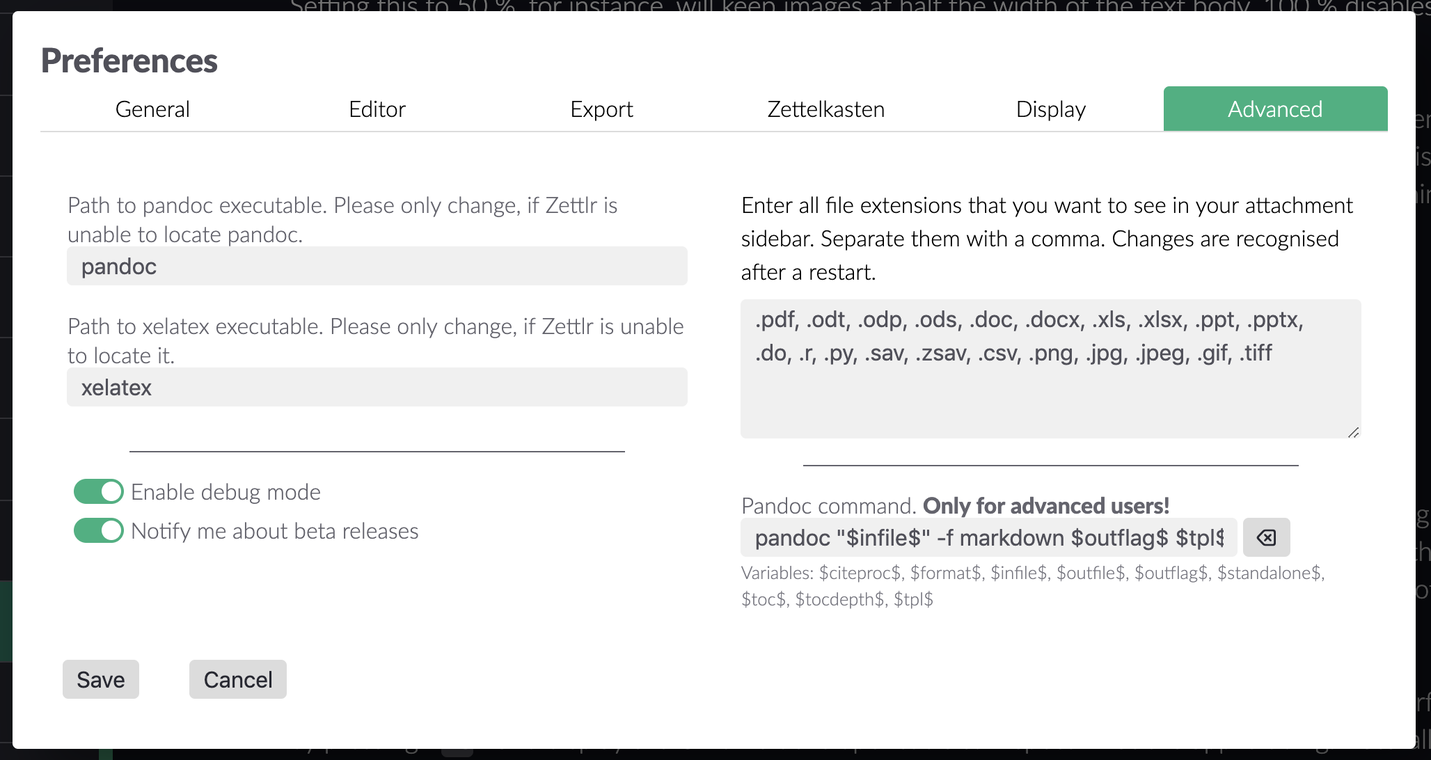
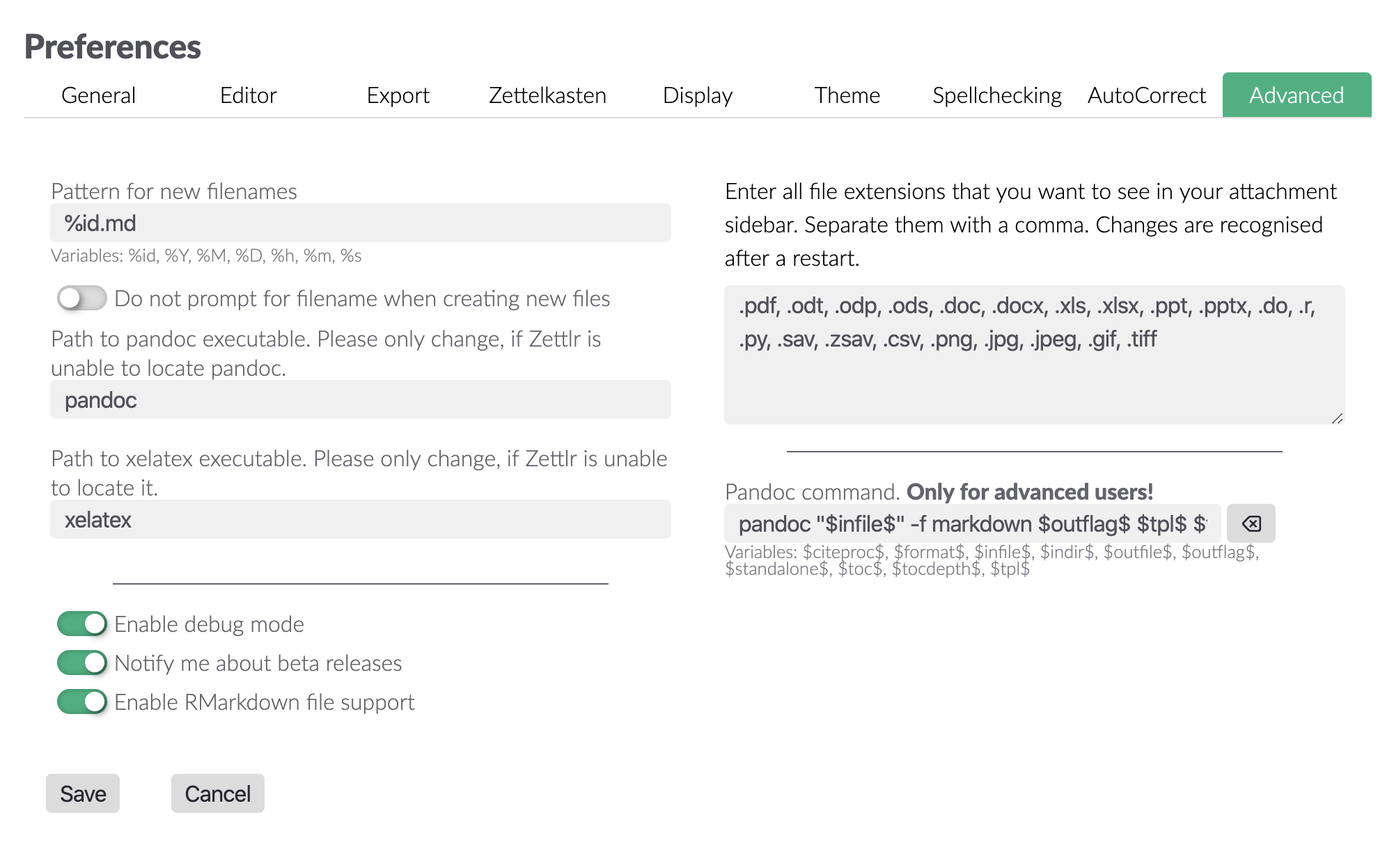
Updated Settings documentation

diff --git a/docs/de/reference/settings.md b/docs/de/reference/settings.md
@@ -4,29 +4,34 @@ Zettlr offers you a plethora of options to customise your experience with the ap
 
 ## General Preferences
 
-You can display the general preference dialog using either the shortcut `Cmd/Ctrl+,`, the toolbar button (the cog) or the respective menu item. The dialog will then show up and present to you all configuration options you may customise. They are ordered in six tabs that you can see at the top of the dialog.
+You can display the general preference dialog using either the shortcut `Cmd/Ctrl+,`, the toolbar button (the cog) or the respective menu item. The dialog will then show up and present to you all configuration options you may customise. They are ordered in nine tabs that you can see at the top of the dialog.
 
 * General: These options affect Zettlr as a whole.
 * Editor: These settings concern only the editor itself.
 * Export: Control how your files are exported in this tab.
 * Zettelkasten: Adapt Zettlr to match your Zettelkasten system.
 * Display: Control how the editor displays certain elements, such as images or links.
+* Theme: Select the theme for the app here.
+* Spellchecking: Find both the installed dictionaries and your user dictionary here.
+* AutoCorrect: Choose text to be replaced and also determine the quotes you’d like to use.
 * Advanced: Options for experienced users.
 
 ### General
 
 ![settings_general.png](../img/settings_general.png)
 
+
 In the general tab you find options that you might want to adjust if you begin using Zettlr to fit it to your needs. The application language is pretty self-explanatory.
 
-The "Night Mode" and "Snippets"-checkboxes control the display. The "Night Mode" is simply the dark theme Zettlr is capable of (and which you might want to control using the shortcut `Cmd/Ctrl+Alt+L` instead). Check the "Snippets"-checkbox to display meta information in the preview pane (although you can control this behaviour as well using its respective shortcut `Cmd/Ctrl+Alt+S`).
+The “Night Mode” and “File information”-checkboxes control the display. The “Night Mode” is simply the dark theme Zettlr is capable of (and which you might want to control using the shortcut `Cmd/Ctrl+Alt+L` instead). Check the “File information”-checkbox to display meta information in the file list (although you can control this behaviour as well using its respective shortcut `Cmd/Ctrl+Alt+S`).
 
-If you check "Hide directories during global search", Zettlr will not display directories while performing a search.
+If you check “Hide directories during global search,” Zettlr will not display directories while performing a search. by selecting “Always load remote changes to the current file”, Zettlr will not ask you whether you’d like to replace the file in the editor.
 
 The sidebar mode controls how the sidebar is displayed to you. You have two options:
 
 * Thin: In thin mode, the sidebar only displays _either_ the list of files _or_ the tree view. You can switch between both using the shortcut `Cmd/Ctrl+Shift+1`.
 * Expanded: The expanded mode displays both the tree view and the file list side by side. In this mode, you have both lists always present.
+* Combined: This makes the Sidebar look more like a traditional file browser, because it does not divide folders and files.
 
 If you want to hide the sidebar completely, please use the distraction-free mode (`Cmd/Ctrl+J`).
 
@@ -42,21 +47,20 @@ Last but not least Zettlr can automatically switch to light or dark mode dependi
 
 ![settings_editor.png](../img/settings_editor.png)
 
-The editor tab controls most functionality of the editor. The list to the left contains all available dictionaries that can be used for spell checking. Simply select the ones you want to use. You can use multiple dictionaries to check bilingual texts. Filter the list using the search box on top of the list.
+The editor tab controls most functionality of the editor. As Markdown allows both asterisks and underscores to make text bold and italic, you can choose your favourite flavour here. The **default image path** is a path you can use to tell Zettlr where it should put your images when you paste them from clipboard. It can be absolute or relative. If you provide the name `assets`, Zettlr would put images by default into the `assets` subdirectory of the directory where your file is. You can even tell it to use a directory relative to the parent directory, e.g. `../assets`. Remember that you can always select the directory for an image on a case-by-case basis.
 
-> **Tip**: To disable spell checking, uncheck all dictionaries. To install additional dictionaries, refer to the [localisation manual](../core/localisation.md).
+The indentation refers to the amount of spaces inserted when you, e.g., increase the level of lists.
 
-On the right hand side of the tab, you can see some checkboxes, a text input, and another list. First you can **mute non-focused lines** while you are in the distraction free mode. This means that Zettlr dims all lines except the one where your cursor is. The next option allows you to **automatically close certain character pairs**.
+The algorithm for the readability mode that Zettlr should use when you toggle the readability mode. For a short explanation of the different algorithms available, please head over to [our documentation on the readability mode](https://www.zettlr.com/readability).
+
+Further, you can **mute non-focused lines** while you are in the distraction free mode. This means that Zettlr dims all lines except the one where your cursor is. The next option allows you to **automatically close certain character pairs**.
 
 The third option only applies to users using a keyboard that features the `Home` and `End` keys. If you press them, the default CodeMirror behaviour is to move the cursor to the beginning or end respectively of a whole paragraph (i.e.: the beginning and end of a _logical_ line). If you want CodeMirror to only move to the beginning and end of the _visible_ line, make sure to turn off this option. If you make use of the hard-wrap feature of Markdown, and always manually wrap a paragraph, this setting won't have any effect for you.
-
-The **default image path** is a path you can use to tell Zettlr where it should put your images when you paste them from clipboard. It can be absolute or relative. If you provide the name `assets`, Zettlr would put images by default into the `assets` subdirectory of the directory where your file is. You can even tell it to use a directory relative to the parent directory, e.g. `../assets`. Remember that you can always select the directory for an image on a case-by-case basis.
-
-Finally, the list on the right hand side of the tab displays all the words you've added to your custom dictionary. Click them to remove them from your user dictionary.
 
 ### Export
 
 ![settings_export.png](../img/settings_export.png)
+
 
 The export tab allows you to tweak all preferences concerning how your files are exported. To the left you have options concerning the Zettelkasten functionality.
 
@@ -75,6 +79,7 @@ The CSL JSON database field can be used to open a literature database. Zettlr wi
 ### Zettelkasten
 
 ![settings_zettelkasten.png](../img/settings_zettelkasten.png)
+
 
 In this tab you can customise the way Zettlr works with your existing Zettelkasten system. In most cases you won't need to touch these options, except you want to use a custom system.
 
@@ -110,6 +115,7 @@ You can test both the generation of IDs and the detection of them by clicking th
 
 ![settings_display.png](../img/settings_display.png)
 
+
 This tab controls how the editor displays certain elements. Zettlr uses a semi-preview approach to Markdown and only renders some elements. On this tab you can control which elements will be rendered.
 
 > The iFrame-setting controls whether or not to render iFrames (for instance, YouTube-videos are embedded iFrames).
@@ -118,19 +124,49 @@ Additionally you can constrain the size of images, which is especially beneficia
 
 The vertical slider controls the maximum height of the images relative to the window size. 50 percent would mean that images will never be higher than half of the window's total size. 100 percent disables this behaviour. Unlike the width, images may very well exceed 100 percent of the viewport if they are large and thin.
 
+Last but not least you can determine which date you would like to see in the file metadata in the file list. This does not affect the sorting, if you’d like to sort by date. To change the time after which Zettlr should sort your files, please refer to the general tab.
+
+### Theme
+
+![settings_theme.png](../img/settings_theme.png)
+
+This tab should explain itself: Click on any of the previews to switch your application to that theme.
+
+### Spellchecking
+
+![settings_spellchecking.png](../img/settings_spellchecking.png)
+
+With the introduction of the user dictionary, the spellchecking functionality has moved to its dedicated tab. The list to the left contains all available dictionaries that can be used for spell checking. Simply select the ones you want to use. You can use multiple dictionaries to check bilingual texts. Filter the list using the search box on top of the list.
+
+> **Tip**: To disable spell checking, uncheck all dictionaries. To install additional dictionaries, refer to the [localisation manual](../core/localisation.md).
+
+Finally, the list on the right hand side of the tab displays all the words you've added to your custom dictionary. Click them to remove them from your user dictionary.
+
+### AutoCorrect
+
+![settings_autocorrect.png](../img/settings_autocorrect.png)
+
+This tab controls the AutoCorrect features you can use from version 1.5 onward that you might already know from LibreOffice or Word. You can choose to turn it off completely and choose the flavour you’d like. The main difference between the two styles is that Word is much quicker in replacing; it will replace when you type the last character, whereas LibreOffice only replaces when you hit Space or Return. LibreOffice is less harassing, but if you’re perfectly used to Word, you might find this mode easier.
+
+The “Magic Quotes” refer to exactly that: the primary and secondary quotes that you would like to use instead of the generic ASCII-quotes (`"` and `'`). We’ve included a lot of pairs used all around the world. If you would like to deactivate this feature, choose the **first** option (the ASCII-quotes) in both dropdowns.
+
+The last thing you can tweak is the replacement table to the right: These are simply characters you would like to replace with different ones. We’ve included a comprehensive list with most commonly needed tokens, so feel free to have a look around and also add or remove some!
+
 ### Advanced
 
 ![settings_advanced.png](../img/settings_advanced.png)
 
 The advanced tab contains options that are helpful for advanced users.
 
+The “pattern for new filenames” is what the textfield will look like when you create a new file. It will be prepopulated by whatever you type here. You can make use of the variables below (the ID following the pattern you have selected in the Zettelkasten-tab, year, month, day, hour, minute and second). If you tick the checkbox, Zettlr will not even ask you for a filename when you create a new file, which might speed up your workflow.
+
 The **pandoc- and xelatex-text fields** are used in case Zettlr is unable to locate any of these two programs. As you know, Zettlr uses both to export your files. In rare cases it may be that Zettlr is unable to find them, although you installed them properly. If that happens, simply enter the **full, absolute path** to both programs in the textfields to help Zettlr find them.
 
 The **debug option** is used to control whether or not you are able to "reload" the graphical user interface (GUI) by pressing `F5` and display the Chrome developer tools to inspect what the app is doing. Naturally, you would want to do this as a developer.
 
-You can also help Zettlr by **subscribing to beta releases**. When you tick this option, Zettlr will notify you about new beta releases as well. You can then decide whether to use the beta version, or not.
+You can also help Zettlr by **subscribing to beta releases**. When you tick this option, Zettlr will notify you about new beta releases as well. You can then decide whether to use the beta version, or not. Activate **RMarkdown file support** to enable the detection of `.rmd`-files used for R-Markdown. It is inactive by default, as some other programs (for instance, by Adobe) also use this extension to store binary data, which would cause problems.
 
-The text area to the right controls what files will be displayed in the **attachment** sidebar. It is simply a comma-separated list of all file extensions you would like to have at your disposal. The initial list should contain most extensions that are you might be using.
+The text area to the right controls what files will be displayed in the **attachment** sidebar. It is simply a comma-separated list of all file extensions you would like to have at your disposal. The initial list should contain most extensions you might be using.
 
 The **Pandoc command** gives you full control over the export engine. The command in there will be run on export. You have a few variables at your disposal to customise your export:
 
@@ -176,6 +212,6 @@ The font-size should be rather obvious. The line height specifies the spacing be
 
 The tags dialog does not have a shortcut associated, so you'll need to call it using the respective menu item. Here you can assign colours and descriptions to tags.
 
-To add a new tag-colour-relationship, simply press the `+`-button at the bottom of the dialog. In the first field, enter your tag without the preceding hashtag symbol (e.g. if you wanted to assign a colour to the hashtag `#todo`, simply enter `todo`). Next, choose a colour to be assigned to that tag. If you click the second bar after the tag name field, a color picker should appear that lets you choose a colour. In the third field, you can enter a short description for that tag. This description will be shown if you hover over the tag symbols in the preview pane.
+To add a new tag-colour-relationship, simply press the `+`-button at the bottom of the dialog. In the first field, enter your tag without the preceding hashtag symbol (e.g. if you wanted to assign a colour to the hashtag `#todo`, simply enter `todo`). Next, choose a colour to be assigned to that tag. If you click the second bar after the tag name field, a color picker should appear that lets you choose a colour. In the third field, you can enter a short description for that tag. This description will be shown if you hover over the tag symbols in the file list.
 
 If you want to remove a tag-colour-association, simply click the `-`-button at the end of such a tagline (pun intended).

diff --git a/docs/en/reference/settings.md b/docs/en/reference/settings.md
@@ -4,29 +4,34 @@ Zettlr offers you a plethora of options to customise your experience with the ap
 
 ## General Preferences
 
-You can display the general preference dialog using either the shortcut `Cmd/Ctrl+,`, the toolbar button (the cog) or the respective menu item. The dialog will then show up and present to you all configuration options you may customise. They are ordered in six tabs that you can see at the top of the dialog.
+You can display the general preference dialog using either the shortcut `Cmd/Ctrl+,`, the toolbar button (the cog) or the respective menu item. The dialog will then show up and present to you all configuration options you may customise. They are ordered in nine tabs that you can see at the top of the dialog.
 
 * General: These options affect Zettlr as a whole.
 * Editor: These settings concern only the editor itself.
 * Export: Control how your files are exported in this tab.
 * Zettelkasten: Adapt Zettlr to match your Zettelkasten system.
 * Display: Control how the editor displays certain elements, such as images or links.
+* Theme: Select the theme for the app here.
+* Spellchecking: Find both the installed dictionaries and your user dictionary here.
+* AutoCorrect: Choose text to be replaced and also determine the quotes you’d like to use.
 * Advanced: Options for experienced users.
 
 ### General
 
 ![settings_general.png](../img/settings_general.png)
 
+
 In the general tab you find options that you might want to adjust if you begin using Zettlr to fit it to your needs. The application language is pretty self-explanatory.
 
-The "Night Mode" and "Snippets"-checkboxes control the display. The "Night Mode" is simply the dark theme Zettlr is capable of (and which you might want to control using the shortcut `Cmd/Ctrl+Alt+L` instead). Check the "Snippets"-checkbox to display meta information in the preview pane (although you can control this behaviour as well using its respective shortcut `Cmd/Ctrl+Alt+S`).
+The “Night Mode” and “File information”-checkboxes control the display. The “Night Mode” is simply the dark theme Zettlr is capable of (and which you might want to control using the shortcut `Cmd/Ctrl+Alt+L` instead). Check the “File information”-checkbox to display meta information in the file list (although you can control this behaviour as well using its respective shortcut `Cmd/Ctrl+Alt+S`).
 
-If you check "Hide directories during global search", Zettlr will not display directories while performing a search.
+If you check “Hide directories during global search,” Zettlr will not display directories while performing a search. by selecting “Always load remote changes to the current file”, Zettlr will not ask you whether you’d like to replace the file in the editor.
 
 The sidebar mode controls how the sidebar is displayed to you. You have two options:
 
 * Thin: In thin mode, the sidebar only displays _either_ the list of files _or_ the tree view. You can switch between both using the shortcut `Cmd/Ctrl+Shift+1`.
 * Expanded: The expanded mode displays both the tree view and the file list side by side. In this mode, you have both lists always present.
+* Combined: This makes the Sidebar look more like a traditional file browser, because it does not divide folders and files.
 
 If you want to hide the sidebar completely, please use the distraction-free mode (`Cmd/Ctrl+J`).
 
@@ -42,21 +47,20 @@ Last but not least Zettlr can automatically switch to light or dark mode dependi
 
 ![settings_editor.png](../img/settings_editor.png)
 
-The editor tab controls most functionality of the editor. The list to the left contains all available dictionaries that can be used for spell checking. Simply select the ones you want to use. You can use multiple dictionaries to check bilingual texts. Filter the list using the search box on top of the list.
+The editor tab controls most functionality of the editor. As Markdown allows both asterisks and underscores to make text bold and italic, you can choose your favourite flavour here. The **default image path** is a path you can use to tell Zettlr where it should put your images when you paste them from clipboard. It can be absolute or relative. If you provide the name `assets`, Zettlr would put images by default into the `assets` subdirectory of the directory where your file is. You can even tell it to use a directory relative to the parent directory, e.g. `../assets`. Remember that you can always select the directory for an image on a case-by-case basis.
 
-> **Tip**: To disable spell checking, uncheck all dictionaries. To install additional dictionaries, refer to the [localisation manual](../core/localisation.md).
+The indentation refers to the amount of spaces inserted when you, e.g., increase the level of lists.
 
-On the right hand side of the tab, you can see some checkboxes, a text input, and another list. First you can **mute non-focused lines** while you are in the distraction free mode. This means that Zettlr dims all lines except the one where your cursor is. The next option allows you to **automatically close certain character pairs**.
+The algorithm for the readability mode that Zettlr should use when you toggle the readability mode. For a short explanation of the different algorithms available, please head over to [our documentation on the readability mode](https://www.zettlr.com/readability).
+
+Further, you can **mute non-focused lines** while you are in the distraction free mode. This means that Zettlr dims all lines except the one where your cursor is. The next option allows you to **automatically close certain character pairs**.
 
 The third option only applies to users using a keyboard that features the `Home` and `End` keys. If you press them, the default CodeMirror behaviour is to move the cursor to the beginning or end respectively of a whole paragraph (i.e.: the beginning and end of a _logical_ line). If you want CodeMirror to only move to the beginning and end of the _visible_ line, make sure to turn off this option. If you make use of the hard-wrap feature of Markdown, and always manually wrap a paragraph, this setting won't have any effect for you.
-
-The **default image path** is a path you can use to tell Zettlr where it should put your images when you paste them from clipboard. It can be absolute or relative. If you provide the name `assets`, Zettlr would put images by default into the `assets` subdirectory of the directory where your file is. You can even tell it to use a directory relative to the parent directory, e.g. `../assets`. Remember that you can always select the directory for an image on a case-by-case basis.
-
-Finally, the list on the right hand side of the tab displays all the words you've added to your custom dictionary. Click them to remove them from your user dictionary.
 
 ### Export
 
 ![settings_export.png](../img/settings_export.png)
+
 
 The export tab allows you to tweak all preferences concerning how your files are exported. To the left you have options concerning the Zettelkasten functionality.
 
@@ -75,6 +79,7 @@ The CSL JSON database field can be used to open a literature database. Zettlr wi
 ### Zettelkasten
 
 ![settings_zettelkasten.png](../img/settings_zettelkasten.png)
+
 
 In this tab you can customise the way Zettlr works with your existing Zettelkasten system. In most cases you won't need to touch these options, except you want to use a custom system.
 
@@ -110,6 +115,7 @@ You can test both the generation of IDs and the detection of them by clicking th
 
 ![settings_display.png](../img/settings_display.png)
 
+
 This tab controls how the editor displays certain elements. Zettlr uses a semi-preview approach to Markdown and only renders some elements. On this tab you can control which elements will be rendered.
 
 > The iFrame-setting controls whether or not to render iFrames (for instance, YouTube-videos are embedded iFrames).
@@ -118,19 +124,49 @@ Additionally you can constrain the size of images, which is especially beneficia
 
 The vertical slider controls the maximum height of the images relative to the window size. 50 percent would mean that images will never be higher than half of the window's total size. 100 percent disables this behaviour. Unlike the width, images may very well exceed 100 percent of the viewport if they are large and thin.
 
+Last but not least you can determine which date you would like to see in the file metadata in the file list. This does not affect the sorting, if you’d like to sort by date. To change the time after which Zettlr should sort your files, please refer to the general tab.
+
+### Theme
+
+![settings_theme.png](../img/settings_theme.png)
+
+This tab should explain itself: Click on any of the previews to switch your application to that theme.
+
+### Spellchecking
+
+![settings_spellchecking.png](../img/settings_spellchecking.png)
+
+With the introduction of the user dictionary, the spellchecking functionality has moved to its dedicated tab. The list to the left contains all available dictionaries that can be used for spell checking. Simply select the ones you want to use. You can use multiple dictionaries to check bilingual texts. Filter the list using the search box on top of the list.
+
+> **Tip**: To disable spell checking, uncheck all dictionaries. To install additional dictionaries, refer to the [localisation manual](../core/localisation.md).
+
+Finally, the list on the right hand side of the tab displays all the words you've added to your custom dictionary. Click them to remove them from your user dictionary.
+
+### AutoCorrect
+
+![settings_autocorrect.png](../img/settings_autocorrect.png)
+
+This tab controls the AutoCorrect features you can use from version 1.5 onward that you might already know from LibreOffice or Word. You can choose to turn it off completely and choose the flavour you’d like. The main difference between the two styles is that Word is much quicker in replacing; it will replace when you type the last character, whereas LibreOffice only replaces when you hit Space or Return. LibreOffice is less harassing, but if you’re perfectly used to Word, you might find this mode easier.
+
+The “Magic Quotes” refer to exactly that: the primary and secondary quotes that you would like to use instead of the generic ASCII-quotes (`"` and `'`). We’ve included a lot of pairs used all around the world. If you would like to deactivate this feature, choose the **first** option (the ASCII-quotes) in both dropdowns.
+
+The last thing you can tweak is the replacement table to the right: These are simply characters you would like to replace with different ones. We’ve included a comprehensive list with most commonly needed tokens, so feel free to have a look around and also add or remove some!
+
 ### Advanced
 
 ![settings_advanced.png](../img/settings_advanced.png)
 
 The advanced tab contains options that are helpful for advanced users.
 
+The “pattern for new filenames” is what the textfield will look like when you create a new file. It will be prepopulated by whatever you type here. You can make use of the variables below (the ID following the pattern you have selected in the Zettelkasten-tab, year, month, day, hour, minute and second). If you tick the checkbox, Zettlr will not even ask you for a filename when you create a new file, which might speed up your workflow.
+
 The **pandoc- and xelatex-text fields** are used in case Zettlr is unable to locate any of these two programs. As you know, Zettlr uses both to export your files. In rare cases it may be that Zettlr is unable to find them, although you installed them properly. If that happens, simply enter the **full, absolute path** to both programs in the textfields to help Zettlr find them.
 
 The **debug option** is used to control whether or not you are able to "reload" the graphical user interface (GUI) by pressing `F5` and display the Chrome developer tools to inspect what the app is doing. Naturally, you would want to do this as a developer.
 
-You can also help Zettlr by **subscribing to beta releases**. When you tick this option, Zettlr will notify you about new beta releases as well. You can then decide whether to use the beta version, or not.
+You can also help Zettlr by **subscribing to beta releases**. When you tick this option, Zettlr will notify you about new beta releases as well. You can then decide whether to use the beta version, or not. Activate **RMarkdown file support** to enable the detection of `.rmd`-files used for R-Markdown. It is inactive by default, as some other programs (for instance, by Adobe) also use this extension to store binary data, which would cause problems.
 
-The text area to the right controls what files will be displayed in the **attachment** sidebar. It is simply a comma-separated list of all file extensions you would like to have at your disposal. The initial list should contain most extensions that are you might be using.
+The text area to the right controls what files will be displayed in the **attachment** sidebar. It is simply a comma-separated list of all file extensions you would like to have at your disposal. The initial list should contain most extensions you might be using.
 
 The **Pandoc command** gives you full control over the export engine. The command in there will be run on export. You have a few variables at your disposal to customise your export:
 
@@ -176,6 +212,6 @@ The font-size should be rather obvious. The line height specifies the spacing be
 
 The tags dialog does not have a shortcut associated, so you'll need to call it using the respective menu item. Here you can assign colours and descriptions to tags.
 
-To add a new tag-colour-relationship, simply press the `+`-button at the bottom of the dialog. In the first field, enter your tag without the preceding hashtag symbol (e.g. if you wanted to assign a colour to the hashtag `#todo`, simply enter `todo`). Next, choose a colour to be assigned to that tag. If you click the second bar after the tag name field, a color picker should appear that lets you choose a colour. In the third field, you can enter a short description for that tag. This description will be shown if you hover over the tag symbols in the preview pane.
+To add a new tag-colour-relationship, simply press the `+`-button at the bottom of the dialog. In the first field, enter your tag without the preceding hashtag symbol (e.g. if you wanted to assign a colour to the hashtag `#todo`, simply enter `todo`). Next, choose a colour to be assigned to that tag. If you click the second bar after the tag name field, a color picker should appear that lets you choose a colour. In the third field, you can enter a short description for that tag. This description will be shown if you hover over the tag symbols in the file list.
 
 If you want to remove a tag-colour-association, simply click the `-`-button at the end of such a tagline (pun intended).

diff --git a/docs/de/academic/projects.md b/docs/de/academic/projects.md
@@ -29,7 +29,7 @@ Currently, both the page and the font tabs are exactly the same for projects and
 
 To build a project, Zettlr will follow the steps described below to generate your final PDF, so please read them carefully to know what to expect once you decide to export your project!
 
-First, Zettlr will take the project directory and crunch the whole contents into a one-dimensional array. This means that **all subfolders and all files in it will be flattened down into a simple list.** What does that mean? Simply have a look at the preview pane. Internally, before exporting your files, Zettlr will arrange the files _exactly_ as in the preview pane. Therefore, if you check out your preview list, you will know exactly which file will come after which. This is by design so you don't have a nightmarish discovery once you've handed in a paper and realise a full folder with three chapters has been left out.
+First, Zettlr will take the project directory and crunch the whole contents into a one-dimensional array. This means that **all subfolders and all files in it will be flattened down into a simple list.** What does that mean? Simply have a look at the file list. Internally, before exporting your files, Zettlr will arrange the files _exactly_ as in the preview pane. Therefore, if you check out your preview list, you will know exactly which file will come after which. This is by design so you don't have a nightmarish discovery once you've handed in a paper and realise a full folder with three chapters has been left out.
 
 > Please note that Zettlr will use _all_ subdirectories! This is meant as a convenience for people writing huge projects that they can use as many subdirectories as they want. Therefore, the preview list will be exactly exported as is (all directories will simply be omitted). So please do not create a second level subdirectory, crunch your notes in it and then wonder how your notes got into the final manuscript. If you want to use additional files that shouldn't be exported, simply create two more folders inside your project directory. In one you can then put all your working files, while you can convert the other into the project that can be exported.
 

diff --git a/docs/en/academic/projects.md b/docs/en/academic/projects.md
@@ -29,7 +29,7 @@ Currently, both the page and the font tabs are exactly the same for projects and
 
 To build a project, Zettlr will follow the steps described below to generate your final PDF, so please read them carefully to know what to expect once you decide to export your project!
 
-First, Zettlr will take the project directory and crunch the whole contents into a one-dimensional array. This means that **all subfolders and all files in it will be flattened down into a simple list.** What does that mean? Simply have a look at the preview pane. Internally, before exporting your files, Zettlr will arrange the files _exactly_ as in the preview pane. Therefore, if you check out your preview list, you will know exactly which file will come after which. This is by design so you don't have a nightmarish discovery once you've handed in a paper and realise a full folder with three chapters has been left out.
+First, Zettlr will take the project directory and crunch the whole contents into a one-dimensional array. This means that **all subfolders and all files in it will be flattened down into a simple list.** What does that mean? Simply have a look at the file list. Internally, before exporting your files, Zettlr will arrange the files _exactly_ as in the preview pane. Therefore, if you check out your preview list, you will know exactly which file will come after which. This is by design so you don't have a nightmarish discovery once you've handed in a paper and realise a full folder with three chapters has been left out.
 
 > Please note that Zettlr will use _all_ subdirectories! This is meant as a convenience for people writing huge projects that they can use as many subdirectories as they want. Therefore, the preview list will be exactly exported as is (all directories will simply be omitted). So please do not create a second level subdirectory, crunch your notes in it and then wonder how your notes got into the final manuscript. If you want to use additional files that shouldn't be exported, simply create two more folders inside your project directory. In one you can then put all your working files, while you can convert the other into the project that can be exported.
 
